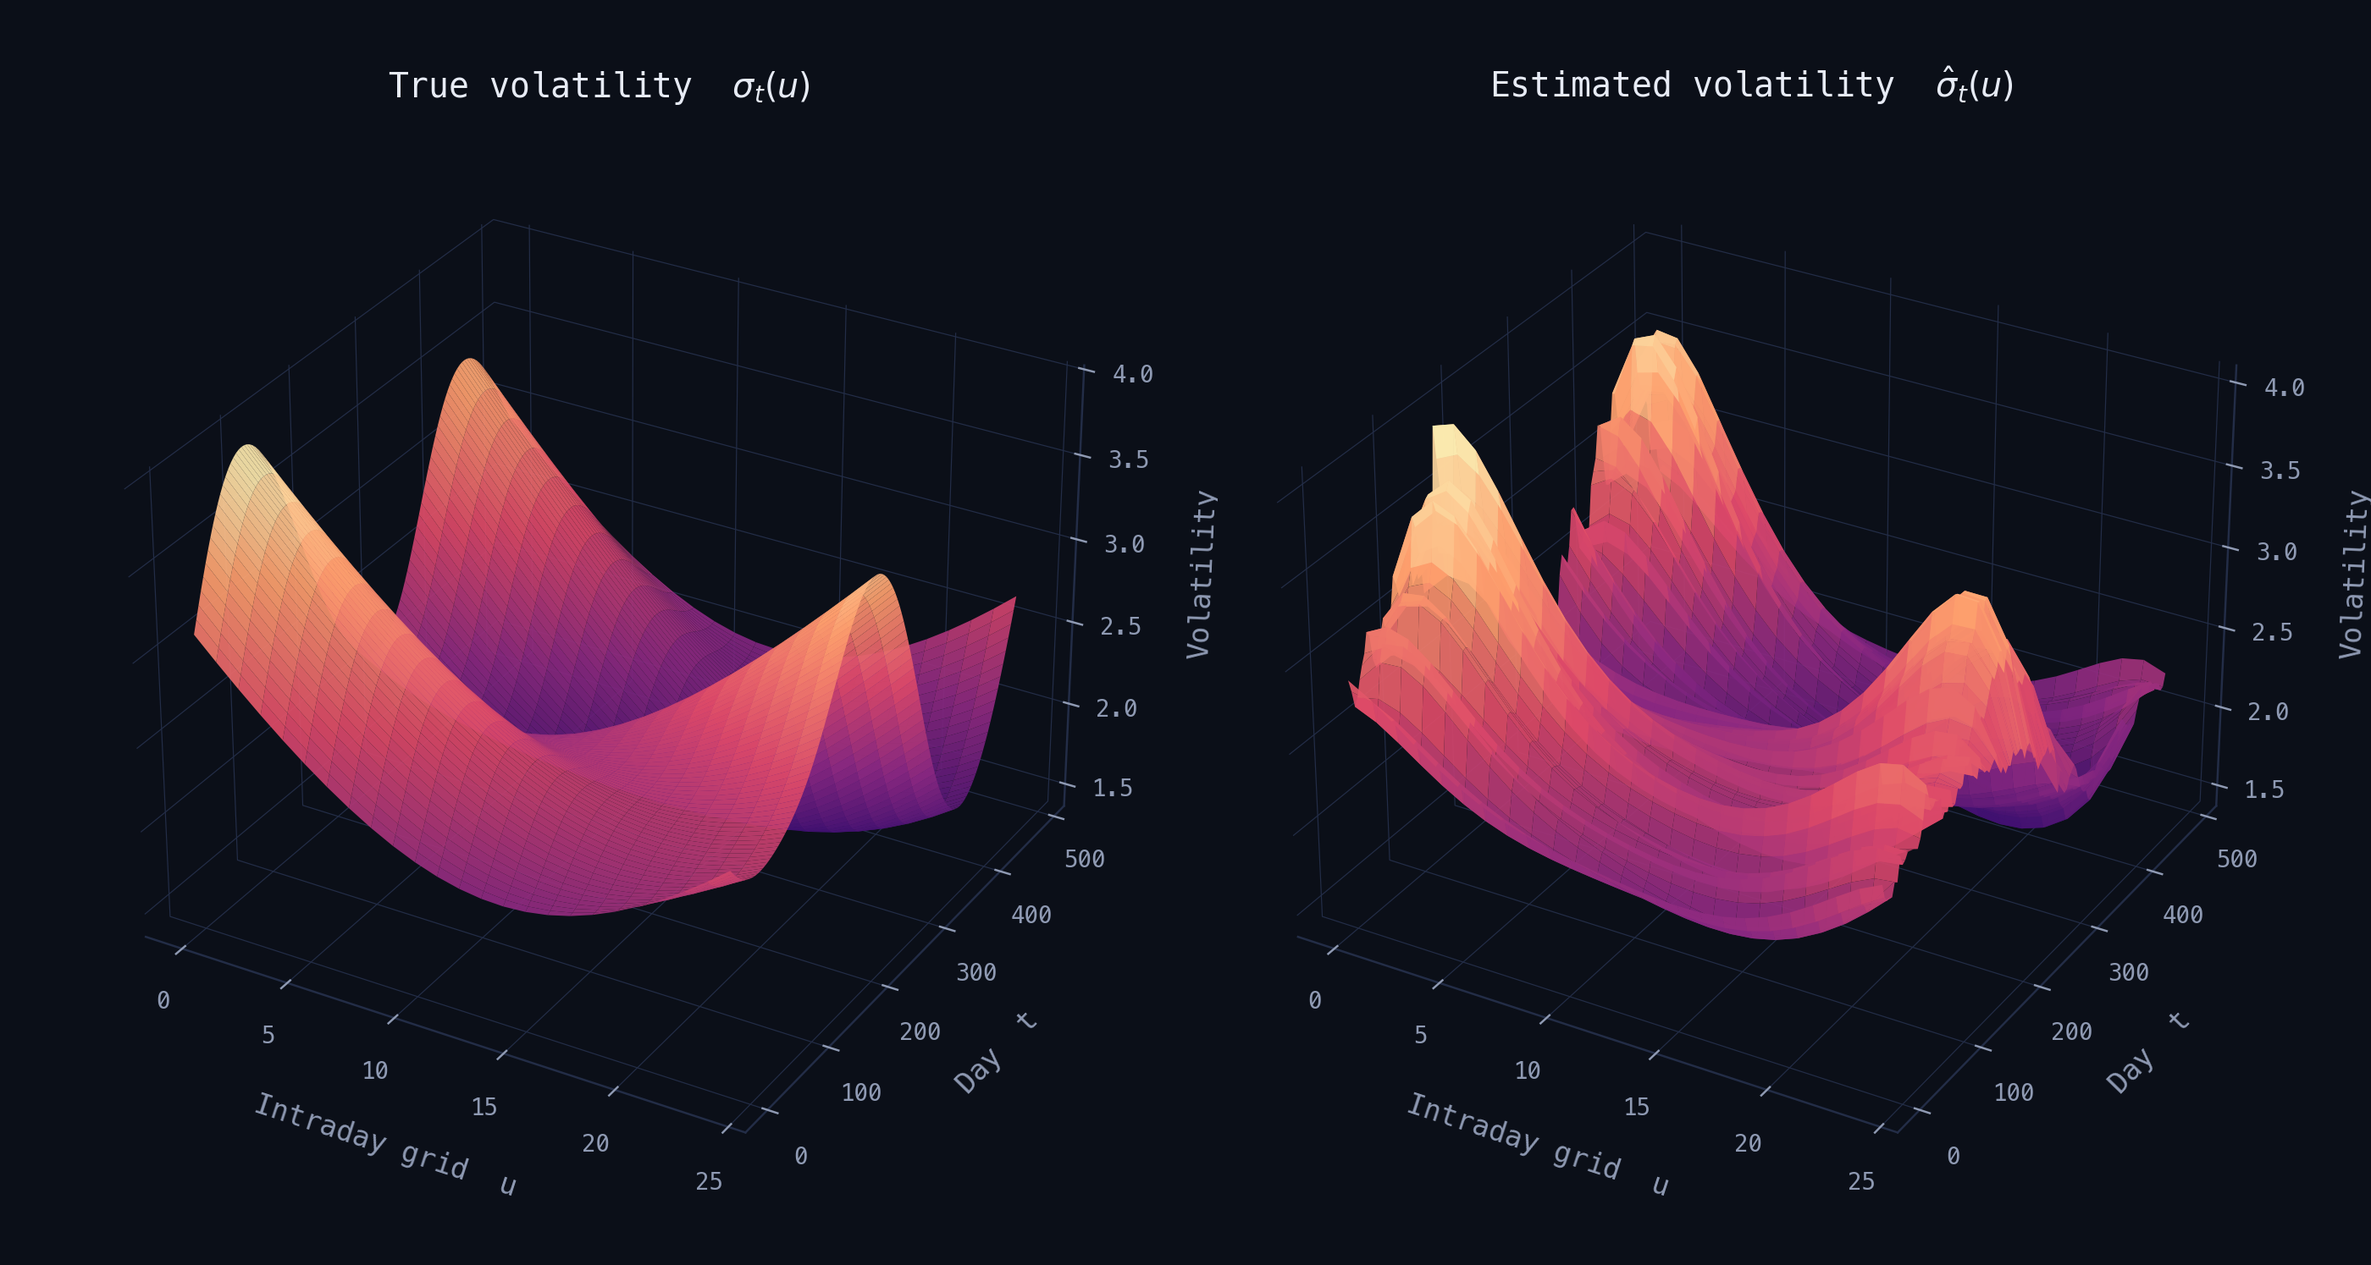
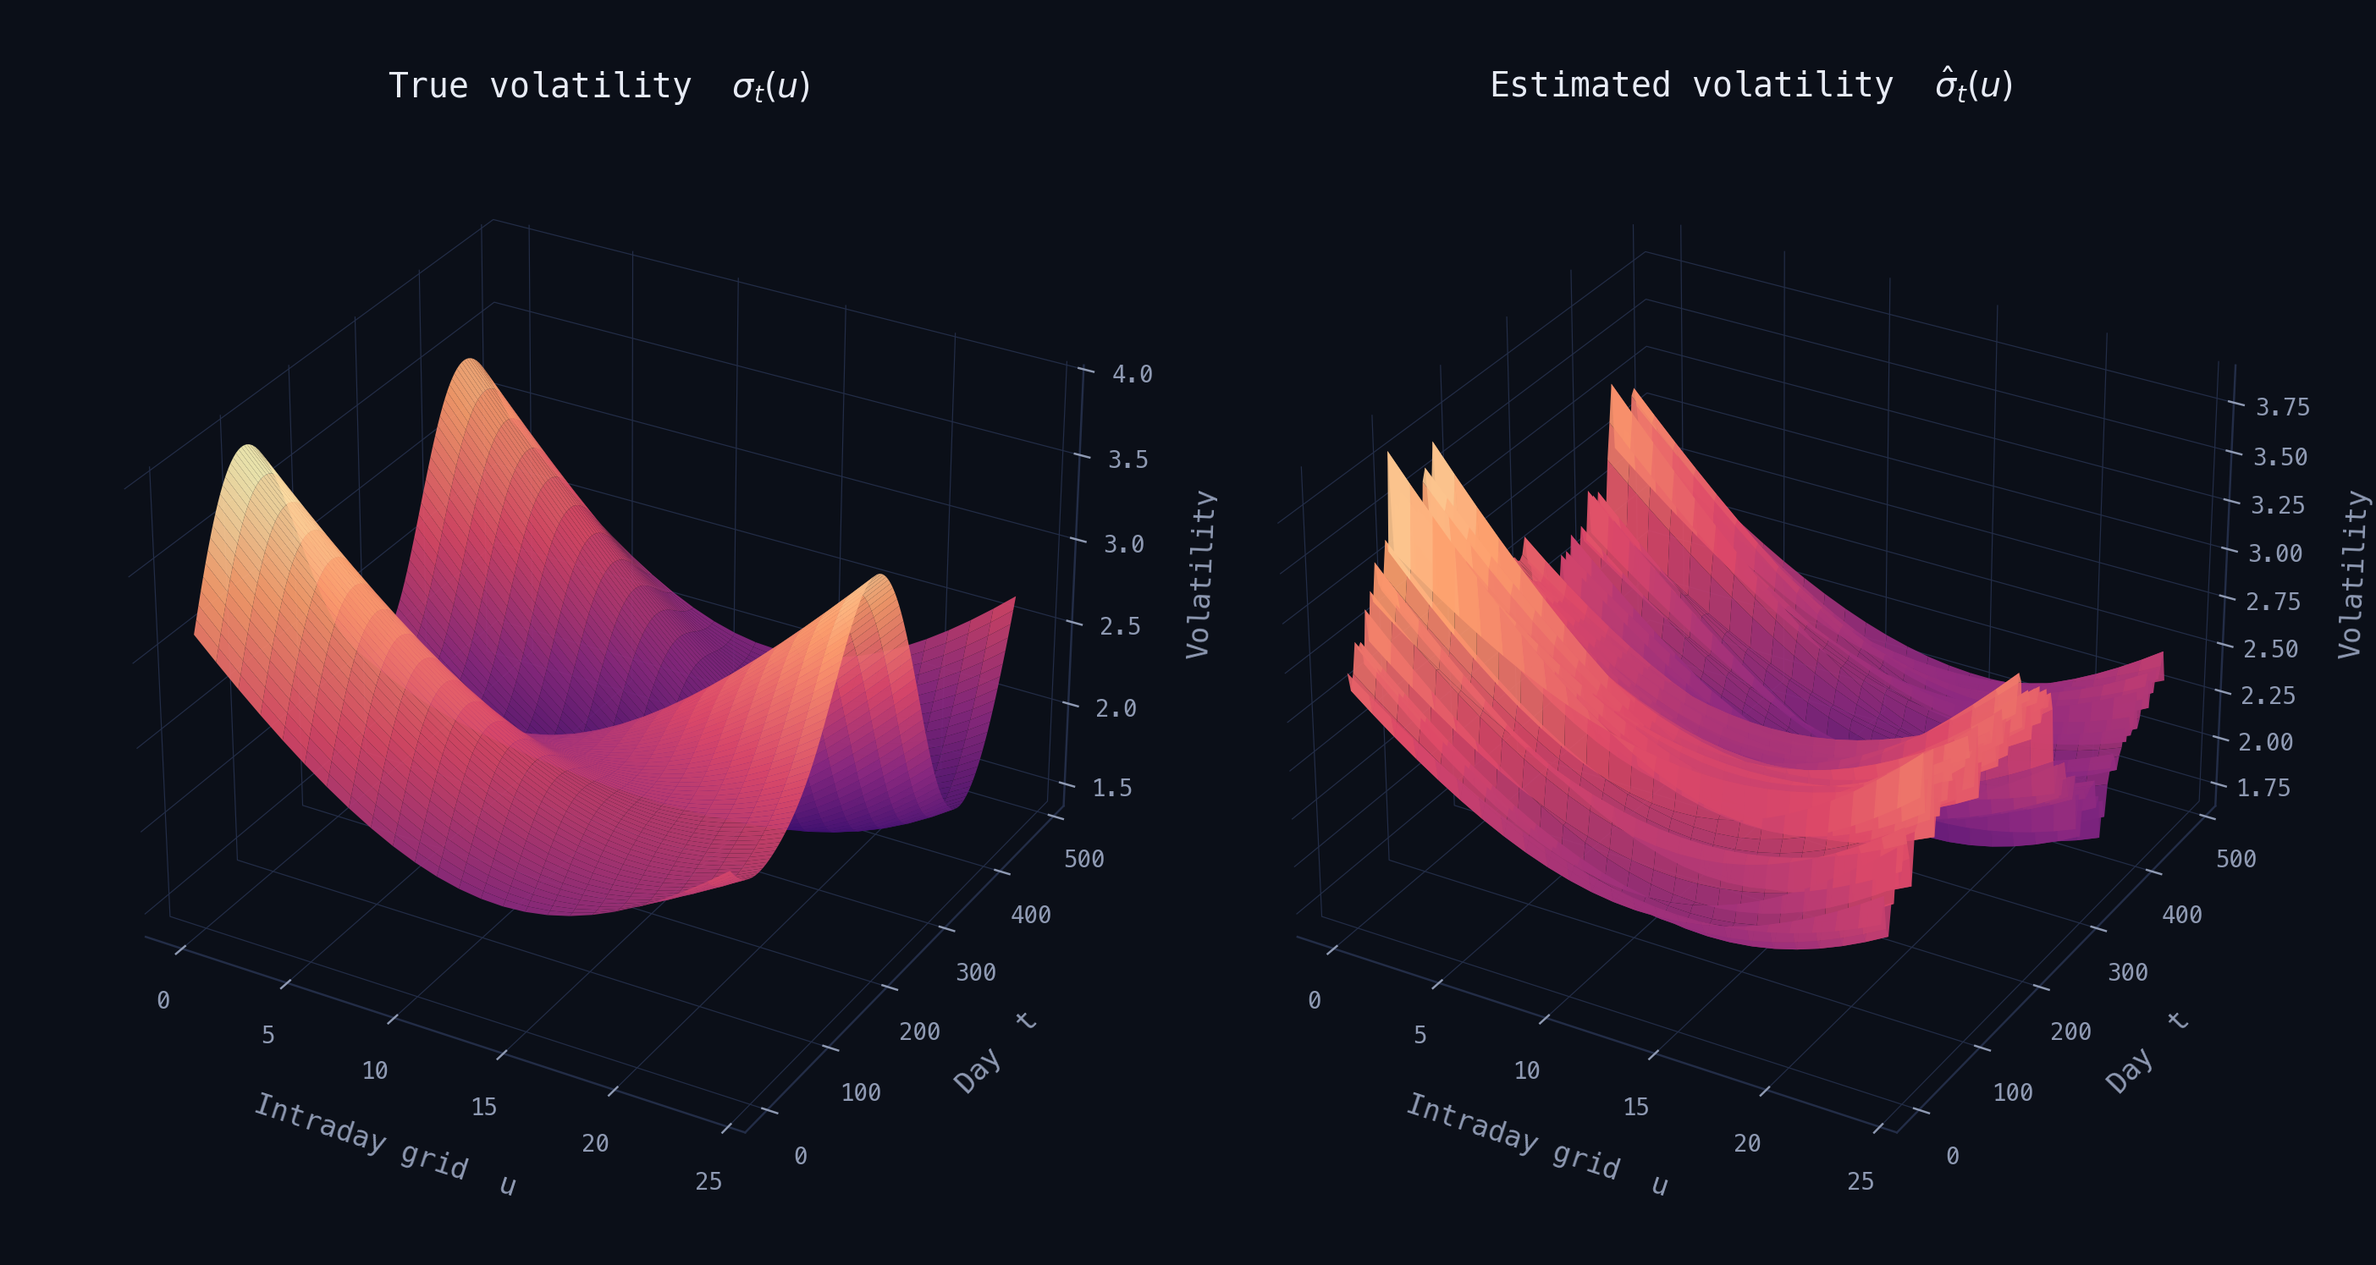
Publish Sieve-M volatility blogpost, add Functional Stationarity Test thumbnail, refresh GARCH surface render
Adds a new blogpost walking through the Sieve-M/transformed-polynomial
paper (Zunnenberg, Suijdendorp, Schnitzeler, Vermeulen): the GARCH/APARCH
setup, the transformed-polynomial sieve construction, the two simulation
studies with the volatility-smile figure, the student-t QQ robustness
check, and the S&P 500 empirical result. Cropped figures are sourced
directly from the paper's compiled PDF. Also gives the Functional
Stationarity Test project card a real thumbnail instead of an icon, and
refreshes the GARCH volatility-surface render used on the Functional
Scale Volatility Estimation card with its updated version. The raw
LaTeX/pgf paper source used to write the post is excluded via .gitignore
rather than committed.

Claude-Session: https://claude.ai/code/session_01F6BCuZJ3vNPwN3rzDomNKU

diff --git a/assets/css/style.css b/assets/css/style.css
@@ -189,6 +189,25 @@ main h2,
   max-width: none;
 }
 
+.article-figure {
+  margin: 22px 0;
+}
+
+.article-figure img {
+  display: block;
+  width: 100%;
+  border: 1px solid var(--line-soft);
+  border-radius: 2px;
+  background: #fff;
+}
+
+.article-figure figcaption {
+  font-size: 12.5px;
+  color: var(--ink-faint);
+  margin-top: 8px;
+  line-height: 1.5;
+}
+
 /* Header */
 .site-header {
   display: flex;

diff --git a/blogposts/sieve-estimation-of-volatility/index.md b/blogposts/sieve-estimation-of-volatility/index.md
@@ -1,0 +1,179 @@
+---
+layout: default
+title: Sieve-M Estimation for Conditional Heteroskedasticity
+permalink: /blogposts/sieve-estimation-of-volatility/
+---
+
+<section class="hero">
+  <img class="hero-img" src="{{ '/images/volatility/background.jpg' | relative_url }}" alt="">
+  <div class="hero-fade" aria-hidden="true"></div>
+  <div class="hero-content">
+    <div class="hero-eyebrow">Blogpost &middot; Volatility Modelling</div>
+    <h1 class="hero-name">Sieve-M Estimation for Conditional Heteroskedasticity</h1>
+    <p class="hero-lede">Letting a GARCH model learn its own news-impact curve, and finding out why it still loses to APARCH on real data.</p>
+  </div>
+</section>
+
+<div class="article-body">
+
+<p class="tagline">By Daan Zunnenberg, Daniel Suijdendorp, Robbert Schnitzeler and Gijs Vermeulen</p>
+
+<h4>The problem with fixing the shape in advance</h4>
+
+<p>
+Every GARCH model makes a choice before it ever sees a single return: the shape of the function that maps yesterday's shock into today's variance. The plain GARCH(1,1) model writes that shape as a symmetric quadratic,
+</p>
+
+<p>
+\[
+\sigma^2(t) = \omega + \beta\varepsilon_{t-1}^2 + \alpha\sigma^2(t-1),
+\]
+</p>
+
+<p>
+for a return process \(x_t=\mu+\varepsilon_t\) with \(\varepsilon_t\sim\sigma(t)\vartheta(\nu)\), the centered student-\(t\) density on \(\nu>2\) degrees of freedom. Squaring \(\varepsilon_{t-1}\) means a large positive shock and a large negative shock of the same size move volatility by exactly the same amount. Financial returns do not behave that way. Volatility tends to react harder to bad news than to good news, which shows up statistically as a non-zero skew in the return distribution. Fit a symmetric model to an asymmetric process and you get a model that is misspecified by construction, no matter how well you estimate its parameters.
+</p>
+
+<p>
+The standard fix is to build the asymmetry into the model by hand. Writing \(\phi_\lambda(\varepsilon_t) \coloneqq \lambda \mathbb{1}\{\varepsilon_t \leqslant 0\}\varepsilon_t\), one natural correction is
+</p>
+
+<p>
+\[
+\sigma^2(t,\phi_\lambda) = \omega + \beta(\varepsilon_{t-1}-\phi_\lambda(\varepsilon_{t-1}))^2 + \alpha\sigma^2(t-1,\phi_\lambda),
+\]
+</p>
+
+<p>
+which generalises further to the asymmetric power ARCH (APARCH) model,
+</p>
+
+<p>
+\[
+\sigma^\delta(t,\phi_\lambda) = \omega + \beta(|\varepsilon_{t-1}|-\phi_\lambda(\varepsilon_{t-1}))^\delta + \alpha\sigma^\delta(t-1,\phi_\lambda).
+\]
+</p>
+
+<p>
+This works, but only to the extent that the true news-impact curve actually looks like this particular parametric family. \(\lambda\) buys you one extra degree of freedom: an asymmetric tilt. If the real shape is more complicated than a tilted power curve, APARCH is still misspecified, just less obviously so.
+</p>
+
+<h4>Letting the shape be unknown</h4>
+
+<p>
+The alternative we study is to stop guessing the functional form altogether. Instead of committing to a parametric asymmetry term, write the updating equation as
+</p>
+
+<p>
+\[
+\sigma^2(t,f_0) = \omega + \beta\varepsilon_{t-1}^2 + \alpha\sigma^2(t-1,f_0) + f_0(x_{t-1}),
+\]
+</p>
+
+<p>
+where \(f_0\) is only assumed to be some continuous function on a compact interval \([a,b]\), not a fixed formula. This is a semi-nonparametric model: part of it (\(\omega,\beta,\alpha\)) is a small, finite parameter vector, and part of it (\(f_0\)) is an infinite-dimensional object that has to be estimated from the data itself.
+
+You cannot directly optimise over the space of all continuous functions on a computer, so the practical trick is sieve estimation. Instead of searching all of \(C^r[a,b]\), you search an increasing sequence of finite-dimensional approximating spaces \(\Theta_1 \subseteq \Theta_2 \subseteq \Theta_3 \subseteq \cdots\), called sieves, that get denser and denser in the limit. Concretely, we approximate \(f_0\) with order-\(k\) transformed polynomials,
+</p>
+
+<p>
+\[
+\Omega_{k,\bm{a}}([a,b]) \coloneqq \left\{ \xi_{k,\eta}(\varepsilon;\bm{a}) \coloneqq a_0 + a_1\varepsilon + \sum_{j=2}^{k} a_j \varepsilon^j \phi_\eta(\varepsilon),\ \eta\in B\subsetneq(-\infty,0),\ a_i\in[-M_k,M_k] \right\},
+\]
+</p>
+
+<p>
+where \(\phi_\eta(\varepsilon) = \exp(\eta\varepsilon^2)\) squashes the higher-order terms back into a bounded range so the polynomial doesn't blow up outside the data, and \(M_k\to\infty\) as the sieve grows. By the Weierstrass approximation theorem this class is dense in \(C^r[a,b]\) as \(k\to\infty\), so in the limit it can represent any continuous news-impact curve, not just quadratics or tilted quadratics. The parameters, including the transformed polynomial coefficients, are estimated by maximising the (decomposed) likelihood of the student-\(t\) model under the sequential least squares programming algorithm, subject to the usual stationarity and positivity constraints.
+</p>
+
+<p>
+The catch is exactly the one you'd expect: more flexibility is not free. A higher order \(k\) always fits the in-sample likelihood at least as well as a lower one, so left unchecked the procedure would overfit noise. We therefore choose \(k\) by the Akaike and Bayesian information criteria, \(\text{AIC}=2|\bm{\theta}|-2\hat{L}\) and \(\text{BIC}=|\bm{\theta}|\log n - 2\hat{L}\), both of which penalise adding coefficients that don't earn their keep in likelihood.
+</p>
+
+<h4>Two simulations, two very different verdicts</h4>
+
+<p>
+To see what this buys you in practice, we simulated returns from two known news-impact curves and asked whether the transformed polynomial model could recover them better than the plain \(t\)-GARCH(1,1) and \(t\)-APARCH(1,1,1) benchmarks.
+</p>
+
+<p>
+The first curve is deliberately sharp and asymmetric,
+</p>
+
+<p>
+\[
+\sigma^2(t) = b_0 + b_1\varepsilon_{t-1}\mathbb{1}\{\varepsilon_{t-1}\leqslant 0\} + b_2\varepsilon_{t-1}\mathbb{1}\{\varepsilon_{t-1}>0\} + b_3\sigma^2(t-1), \qquad \bm{b}=(0.9,-0.8,0.4,0.0),
+\]
+</p>
+
+<p>
+a kinked, non-differentiable function at \(\varepsilon_{t-1}=0\). The second is smoother but considerably more convoluted,
+</p>
+
+<p>
+\[
+\sigma^2(t) = b_0 + b_1\varepsilon_{t-1}^2 + b_2\sigma^2(t-1) + b_3\|\sin\varepsilon_{t-1}\|, \qquad \bm{b}=(0.5,0.2,0.2,1.5),
+\]
+</p>
+
+<p>
+which folds a sinusoid into the variance equation. Neither of these is a curve that \(t\)-GARCH or \(t\)-APARCH can represent exactly by construction.
+</p>
+
+<div class="article-figure">
+  <img src="{{ '/images/volatility/volatility-smile.png' | relative_url }}" alt="Volatility smile from the simulated updating mechanisms: asymmetric process on the left, sinusoidal process on the right, comparing APARCH, GARCH, and the estimated transformed polynomial model against the true simulated curve">
+  <figcaption>Volatility smile from the simulated updating mechanisms defined above: the asymmetric process on the left, the sinusoidal process on the right. The blue line is the true simulated curve; the dashed, dotted, and solid black lines are the fitted APARCH, GARCH, and transformed-polynomial models, using the order that achieved the lowest AIC.</figcaption>
+</div>
+
+<p>
+On the asymmetric process, the picture is mixed. The transformed polynomial model achieves a higher likelihood than either benchmark, and visibly tracks the kink better in the region where 90% of the data mass sits. But the AIC and BIC both favour the simpler \(t\)-GARCH and \(t\)-APARCH models anyway: the extra coefficients needed to trace a sharp, non-smooth kink are expensive, and the penalty terms outweigh the likelihood gain. A sharp, simple asymmetry, it turns out, is exactly the case the parametric APARCH model was built for, and the flexible model can't earn back what it spends fitting it.
+</p>
+
+<p>
+On the sinusoidal process the result flips completely. Every criterion, likelihood, AIC, and BIC, favours the semi-nonparametric model, and by a wide margin. The intuition is in the shape itself: a sinusoid has an infinite Taylor expansion,
+</p>
+
+<p>
+\[
+h(\varepsilon_t,\sigma^2(t)) = \omega + \beta\varepsilon_t + \alpha\sigma^2(t-1) + \left| \sum_{n=0}^{\infty} \frac{(-1)^n}{\Gamma(2n)}\varepsilon_{t-1}^{2n+1} \right|,
+\]
+</p>
+
+<p>
+an infinite sum of monomial terms that a fixed-form model like APARCH simply has no parameters to represent. Every additional order \(k\) in the transformed polynomial buys real information here, so the likelihood improves faster than the AIC and BIC penalise it. The lesson from both simulations together: flexibility pays for itself only when the truth is complicated enough to need it. If the real news-impact curve is simple, or sharply kinked but otherwise simple, added complexity is dead weight.
+</p>
+
+<h4>Checking the distributional assumption before trusting any of this</h4>
+
+<p>
+All of the above relies on the student-\(t\) distribution being a reasonable model for the innovations \(\varepsilon_t\). Before applying any of these models to real data, we checked this directly with a quantile-quantile comparison against the S&amp;P 500 return series.
+</p>
+
+<div class="article-figure">
+  <img src="{{ '/images/volatility/qq-plot.png' | relative_url }}" alt="Empirical-theoretic quantile-quantile plots of S&P 500 returns against the student-t distribution at nu equals infinity (Gaussian) and nu equals 5 degrees of freedom">
+  <figcaption>Empirical-theoretic quantile-quantile relation of the S&amp;P 500 return series against the student-\(t\) distribution on \(\nu\in\{\infty,5\}\) degrees of freedom. The Gaussian case (\(\nu=\infty\), left) departs from the 45-degree line in the tails; \(\nu=5\) (right) tracks it much more closely.</figcaption>
+</div>
+
+<p>
+The Gaussian case, \(\nu=\infty\), departs from the diagonal in both tails: the empirical returns have more extreme observations than a normal distribution predicts, the familiar fat-tails problem in financial returns. Tightening \(\nu\) to 5 degrees of freedom, giving the distribution much heavier tails, brings the quantiles back in line. This matters beyond a robustness footnote: every likelihood comparison in this study, and the AIC/BIC penalties built on top of it, are only meaningful if the assumed error distribution is a reasonable description of the data. Getting \(\nu\) right first is a precondition for everything that follows, not an afterthought.
+</p>
+
+<h4>What happens on real data</h4>
+
+<p>
+We then applied all three models, \(t\)-GARCH, \(t\)-APARCH, and the sieve-estimated transformed polynomial model, to S&amp;P 500 returns, using both a short window (\(n=1000\), 2019&ndash;2023) and a long one (\(n\approx10{,}000\), 1983&ndash;2023). The result echoes the sharp-asymmetry simulation rather than the sinusoidal one: \(t\)-APARCH wins outright on both AIC and BIC at both sample sizes. The higher-order polynomial models do reach a higher raw log-likelihood than APARCH at \(n=1000\), but never enough to overcome the complexity penalty. At \(n\approx10{,}000\), the estimated parameters \((\omega,\beta,\alpha,\nu)\) that are shared across all three models come out remarkably similar, which is itself informative: it suggests the population volatility process for the S&amp;P 500 is not the plain symmetric GARCH model, but something closer to what APARCH already captures with its single asymmetry parameter \(\lambda\).
+</p>
+
+<p>
+There are two ways to read this. The optimistic one is that the real news-impact curve for a broad equity index is, in fact, close enough to APARCH's tilted-power shape that there's little left on the table for a more flexible model to pick up, once you pay for the extra parameters. The more cautious reading is that volatility models of every stripe, ours included, are sensitive to structural breaks: financial crashes, regime shifts, and other one-off events that a stationary model averages over rather than tracks. A more flexible model has more parameters that can be pulled around by exactly this kind of misspecification, which could just as easily explain why the added complexity doesn't pay off here even if the underlying process is more intricate than APARCH assumes. Disentangling those two explanations would require explicitly testing for structural breaks first, which we leave for future work.
+</p>
+
+<h4>Conclusion</h4>
+
+<p>
+Sieve-M estimation with transformed polynomials is a mathematically sound way to stop guessing the shape of the news-impact curve and let the data determine it instead, and the theory backs this up: the class of transformed polynomials is dense in the space of continuous functions, and the resulting estimator is consistent under fairly mild conditions. But soundness in theory is not the same as winning in practice. Whether the added flexibility is worth its cost depends entirely on how complicated the true curve actually is relative to the sample size on hand. When the truth is simple or sharply asymmetric, the parametric \(t\)-APARCH model remains very hard to beat, and that is exactly what we find both in simulation and on the S&amp;P 500. When the truth is genuinely intricate, as in the sinusoidal simulation, the flexible model pulls decisively ahead. The honest conclusion is not "nonparametric beats parametric" or the reverse, but that the AIC and BIC are doing real work here: they are the mechanism that tells you, case by case, whether the extra complexity was worth affording.
+</p>
+
+</div>
+
+<p><a href="{{ '/blogposts/' | relative_url }}">&larr; Back to Blogposts</a></p>

diff --git a/blogposts/index.md b/blogposts/index.md
@@ -28,6 +28,16 @@ body_class: blogposts-index
       <span class="article-card-desc">Market making is a solved problem. That does not mean you can win at it. &middot; with Nicos Starreveld</span>
     </span>
   </a>
+
+  <a class="article-card" href="{{ '/blogposts/sieve-estimation-of-volatility/' | relative_url }}">
+    <span class="article-card-img" aria-hidden="true">
+      <img src="{{ '/images/volatility/background.jpg' | relative_url }}" alt="">
+    </span>
+    <span class="article-card-body">
+      <span class="article-card-title">Sieve-M Estimation for Conditional Heteroskedasticity</span>
+      <span class="article-card-desc">Letting a GARCH model learn its own news-impact curve &middot; with Daniel Suijdendorp, Robbert Schnitzeler &amp; Gijs Vermeulen</span>
+    </span>
+  </a>
 </div>
 
 <h2 id="events">Events</h2>

diff --git a/projects/index.md b/projects/index.md
@@ -41,7 +41,7 @@ permalink: /projects/
 
   <a class="article-card" href="{{ '/projects/functional-stationarity-test/' | relative_url }}">
     <span class="article-card-img" aria-hidden="true">
-      <svg viewBox="0 0 24 24" fill="none" stroke="currentColor" stroke-width="1.6" stroke-linecap="round" stroke-linejoin="round"><path d="M3 12h4l2-7 4 14 2-7h6"/></svg>
+      <img src="{{ '/images/stationarity_background.jpg' | relative_url }}" alt="">
     </span>
     <span class="article-card-body">
       <span class="article-card-date">2024</span>
